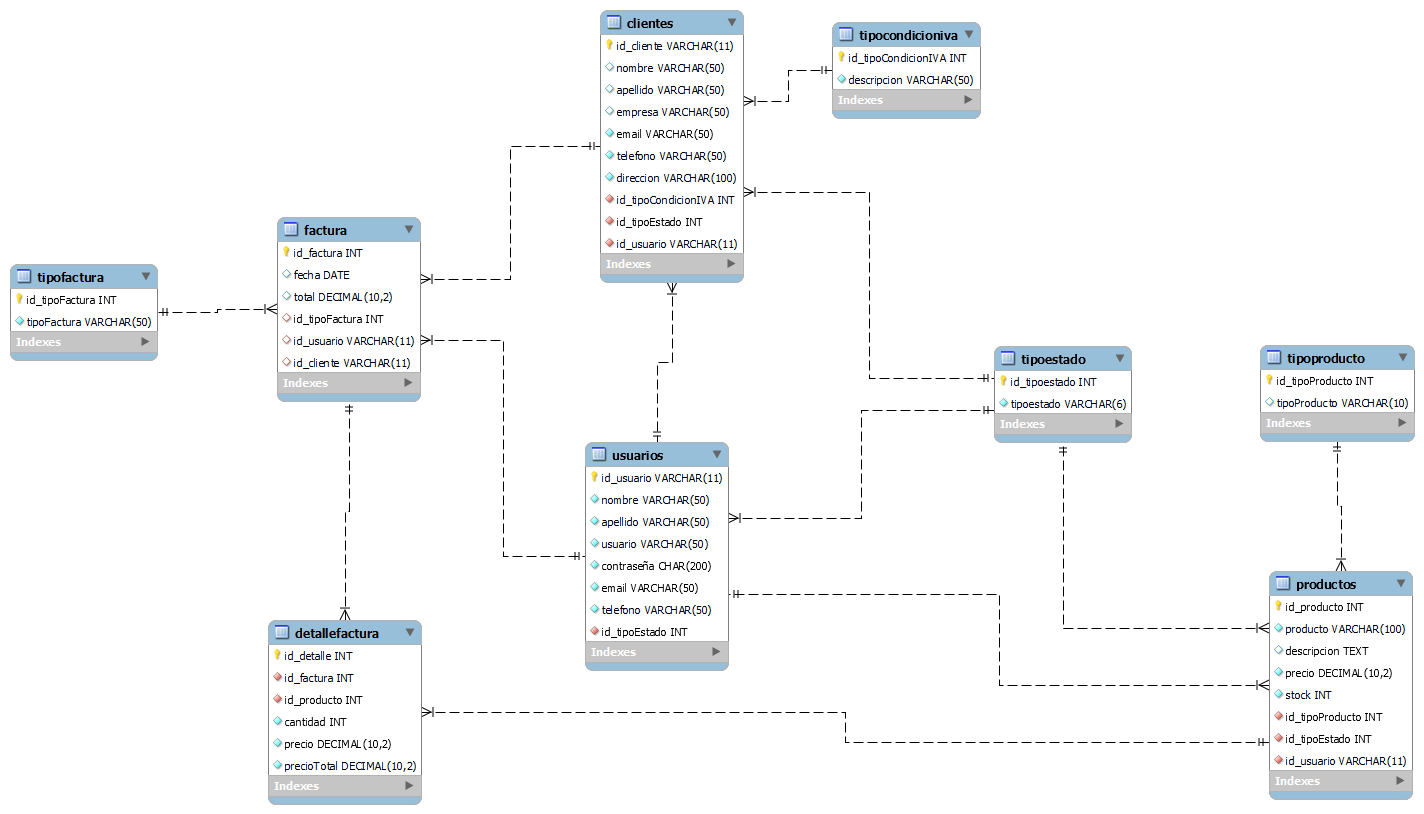
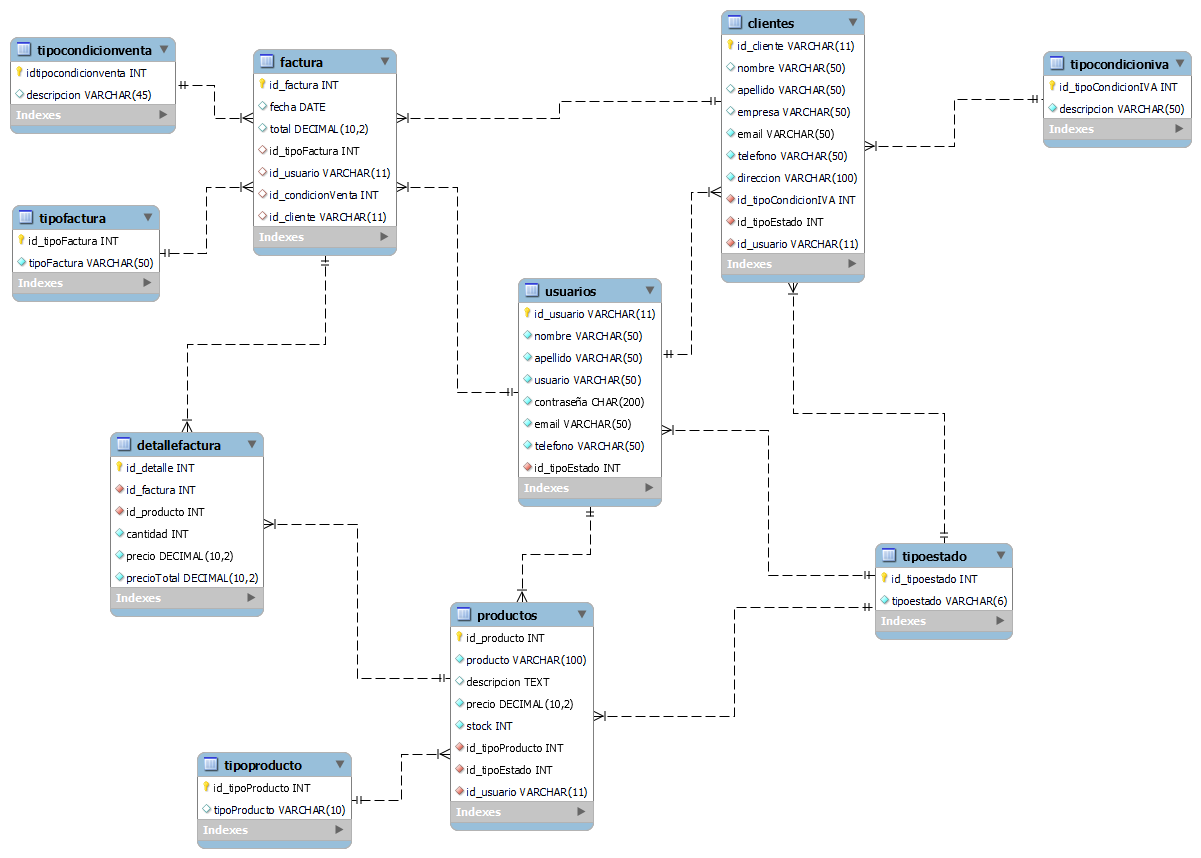
Modelado de la Entidad Factura. Se agrega tabla condicionVenta en MySQL

diff --git a/backend/api/models/Factura.py b/backend/api/models/Factura.py
@@ -1,2 +1,23 @@
+from api.db.db import mysql
+from flask import request, jsonify
+
 class Factura():
+    
+    def __init__(self, json):
+        self._fecha = json['fecha']
+        self._total = json['total']
+        self._id_tipoFactura = json['id_tipoFactura']
+        self._id_cliente = json['id_cliente']        
+        self._id_condicionVenta = json['id_condicionVenta']
+        self._id_usuario = json['id_usuario']
+
+
+class DetalleFactura():
+    
+    def __init__(self, json):
+        self._id_factura = json['id_factura']
+        self._id_producto = json['id_producto']
+        self._cantidad = json['cantidad']
+        self._precio = json['precio']        
+        self._precioTotal = json['precioTotal']
     None
